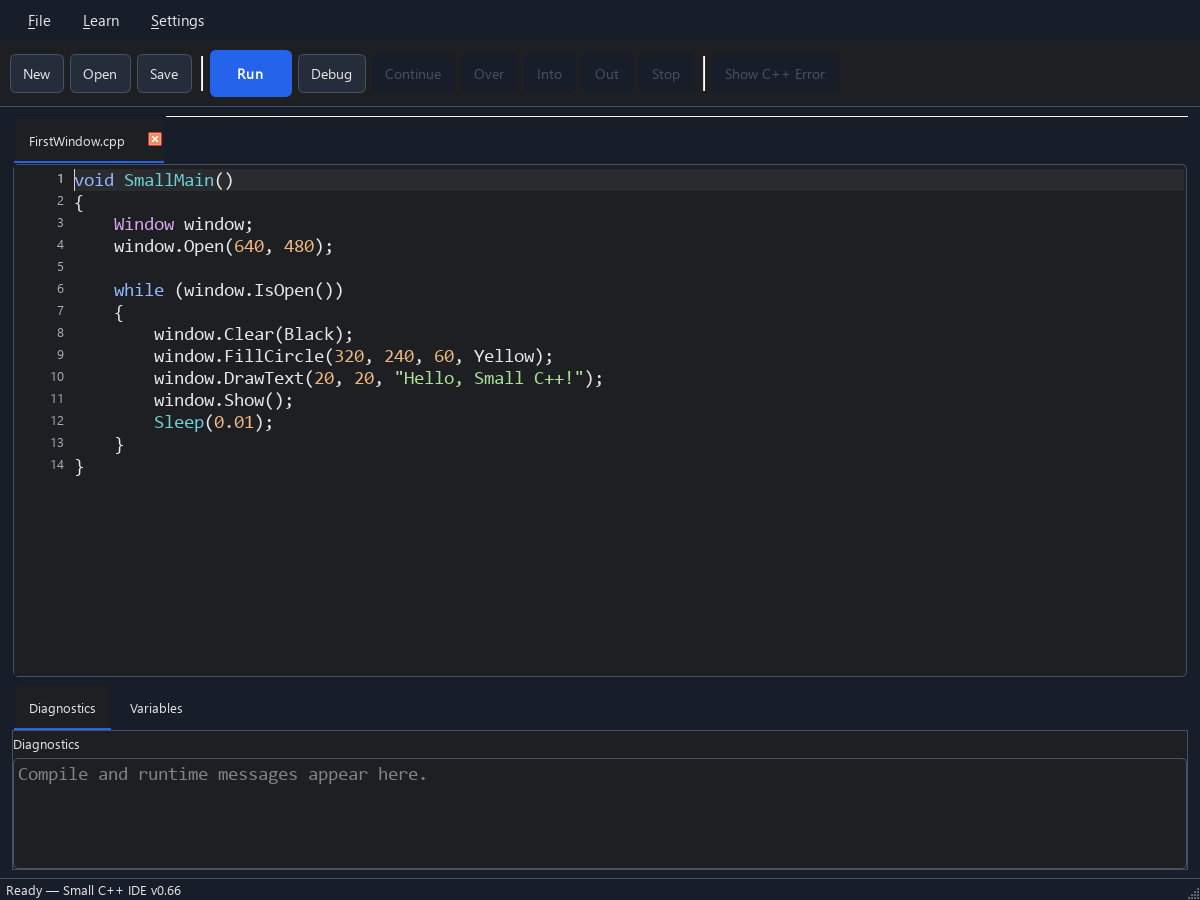
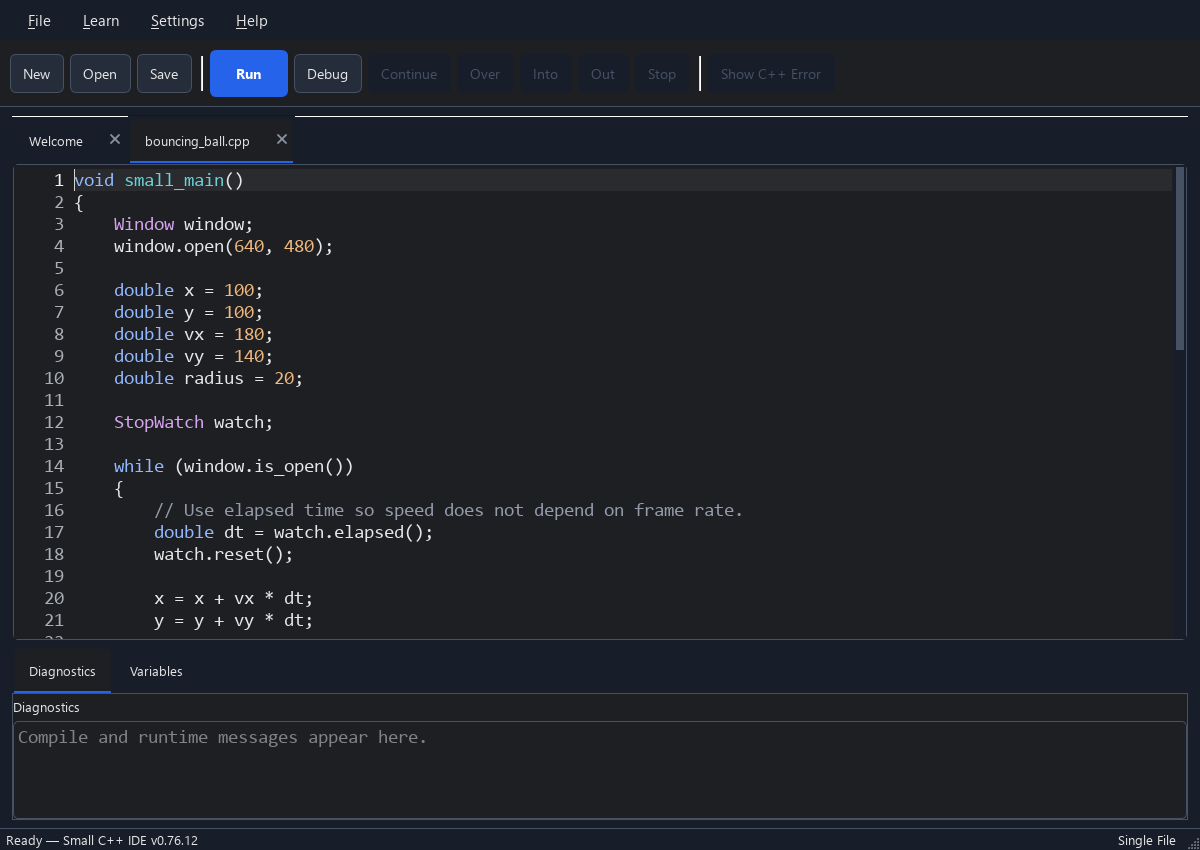
docs: group web lessons by part and refresh IDE previews

diff --git a/site/index.html b/site/index.html
@@ -7,8 +7,8 @@
   <meta name="theme-color" content="#10191b">
   <title>Small C++ — Start small. Go further.</title>
   <link rel="icon" href="assets/smallcpp_128.png">
-  <link rel="stylesheet" href="style.css">
-  <script src="app.js" defer></script>
+  <link rel="stylesheet" href="style.css?v=0.76.12">
+  <script src="app.js?v=0.76.12" defer></script>
 </head>
 <body>
   <header class="navigation wrap">
@@ -22,9 +22,8 @@
         <p class="eyebrow"><span class="status-dot"></span><span data-en="A little beginning. A real language." data-ko="작은 시작. 진짜 프로그래밍 언어.">A little beginning. A real language.</span></p>
         <h1 data-en="Start small.<br><span>Go further.</span>" data-ko="작은 시작.<br><span>큰 가능성.</span>">Start small.<br><span>Go further.</span></h1>
         <p class="hero-description" data-en="Your first line of code shouldn't come with a mountain of setup. Meet a friendly desktop home for learning real C++, one small step at a time." data-ko="코드 한 줄을 쓰기 위해 복잡한 설정부터 배울 필요는 없어요. 실제 C++을 한 걸음씩 배우는, 친근한 데스크톱 개발 환경을 만나 보세요.">Your first line of code shouldn't come with a mountain of setup. Meet a friendly desktop home for learning real C++, one small step at a time.</p>
-        <div class="actions"><a class="button primary" href="https://github.com/sodomau/small-cpp/releases/tag/v0.76.11"><span aria-hidden="true">↓</span><span data-en="Get the Windows preview" data-ko="Windows 미리보기 받기">Get the Windows preview</span></a><a class="text-link" href="https://github.com/sodomau/small-cpp" data-en="Explore the source ↗" data-ko="소스 살펴보기 ↗">Explore the source ↗</a></div>
-        <p class="release-note" data-en="v0.76.11 · Windows x64 · Portable preview" data-ko="v0.76.11 · Windows x64 · 포터블 미리보기">v0.76.11 · Windows x64 · Portable preview</p>
-        <p class="release-note" data-en="The website and current source use the new snake_case API. The v0.76.11 download still uses PascalCase; follow its included tutorials." data-ko="웹사이트와 최신 소스는 새 snake_case API를 사용합니다. v0.76.11 다운로드는 기존 PascalCase API를 사용하므로 함께 제공되는 튜토리얼을 따라 주세요.">The website and current source use the new snake_case API. The v0.76.11 download still uses PascalCase; follow its included tutorials.</p>
+        <div class="actions"><a class="button primary" href="https://github.com/sodomau/small-cpp/releases/tag/v0.76.12"><span aria-hidden="true">↓</span><span data-en="Get the Windows preview" data-ko="Windows 미리보기 받기">Get the Windows preview</span></a><a class="text-link" href="https://github.com/sodomau/small-cpp" data-en="Explore the source ↗" data-ko="소스 살펴보기 ↗">Explore the source ↗</a></div>
+        <p class="release-note" data-en="v0.76.12 · Windows x64 · Portable preview" data-ko="v0.76.12 · Windows x64 · 포터블 미리보기">v0.76.12 · Windows x64 · Portable preview</p>
       </div>
       <div class="code-scene">
         <div class="orbit orbit-one"></div><div class="orbit orbit-two"></div>
@@ -38,12 +37,12 @@
     <div class="facts wrap"><div><strong data-core-lesson-count>97</strong><span data-en="core lessons" data-ko="핵심 레슨">core lessons</span></div><div><strong>2</strong><span data-en="tutorial languages" data-ko="튜토리얼 언어">tutorial languages</span></div><div><strong>C++</strong><span data-en="from the very first line" data-ko="첫 줄부터 실제 C++">from the very first line</span></div></div>
     <section id="experience" class="experience wrap section">
       <div class="section-heading"><div><p class="eyebrow" data-en="A PLACE TO MAKE THINGS" data-ko="무언가를 만드는 공간">A PLACE TO MAKE THINGS</p><h2 data-en="Less setup.<br>More “I made that.”" data-ko="설정은 가볍게.<br>만드는 즐거움은 크게.">Less setup.<br>More “I made that.”</h2></div><div class="section-aside"><p data-en="Write, run, and explore in one native desktop app. Your code becomes a real program on your own computer." data-ko="하나의 네이티브 앱에서 코드를 쓰고, 실행하고, 탐험하세요. 내 코드가 내 컴퓨터에서 실제 프로그램이 됩니다.">Write, run, and explore in one native desktop app. Your code becomes a real program on your own computer.</p><div class="theme-switch" role="group" aria-label="Screenshot theme"><button type="button" data-theme="dark" aria-pressed="true" data-en="Dark" data-ko="다크">Dark</button><button type="button" data-theme="light" aria-pressed="false" data-en="Light" data-ko="라이트">Light</button></div></div></div>
-      <figure class="ide-frame"><div class="frame-caption"><span><span class="status-dot"></span>Small C++ IDE</span><span data-en="Your next idea starts here" data-ko="다음 아이디어는 여기서 시작">Your next idea starts here</span></div><img id="ide-screenshot" src="assets/ide-dark.png" alt="Small C++ desktop IDE with a drawing program, Run and Debug controls, and diagnostics" width="1200" height="800" loading="lazy"></figure>
+      <figure class="ide-frame"><div class="frame-caption"><span><span class="status-dot"></span>Small C++ IDE</span><span data-en="Your next idea starts here" data-ko="다음 아이디어는 여기서 시작">Your next idea starts here</span></div><img id="ide-screenshot" data-version="0.76.12" src="assets/ide-dark.png?v=0.76.12" alt="Small C++ desktop IDE with a drawing program, Run and Debug controls, and diagnostics" width="1200" height="850" loading="lazy"></figure>
       <div class="feature-grid"><article><span class="feature-icon" aria-hidden="true">▶</span><h3 data-en="Make it run" data-ko="바로 실행하기">Make it run</h3><p data-en="Write a small program. Press Run. See what happens. The Windows bundle includes the compiler and debugger." data-ko="작은 프로그램을 쓰고 Run을 누르세요. 결과를 바로 확인할 수 있어요. Windows 배포판에 컴파일러와 디버거가 포함됩니다.">Write a small program. Press Run. See what happens. The Windows bundle includes the compiler and debugger.</p></article><article><span class="feature-icon peach" aria-hidden="true">✳</span><h3 data-en="Make it yours" data-ko="나만의 작품 만들기">Make it yours</h3><p data-en="Go from text to windows, drawing, keyboard input, sound, and images. Build something you want to show a friend." data-ko="텍스트에서 창, 그림, 키보드 입력, 소리, 이미지까지. 친구에게 보여 주고 싶은 작품을 만들어 보세요.">Go from text to windows, drawing, keyboard input, sound, and images. Build something you want to show a friend.</p></article><article><span class="feature-icon lilac" aria-hidden="true">⌁</span><h3 data-en="Understand the why" data-ko="왜 그런지 알아보기">Understand the why</h3><p data-en="Step through your code, watch variables, and learn from readable diagnostics. See the original C++ error when you're ready." data-ko="코드를 한 단계씩 실행하고 변수의 변화를 보세요. 읽기 쉬운 오류 설명으로 배우고, 준비되면 원래 C++ 오류도 살펴보세요.">Step through your code, watch variables, and learn from readable diagnostics. See the original C++ error when you're ready.</p></article></div>
     </section>
     <section id="learn" class="learning section"><div class="wrap"><div class="section-heading"><div><p class="eyebrow" data-en="FOLLOW YOUR CURIOSITY" data-ko="호기심을 따라 한 걸음씩">FOLLOW YOUR CURIOSITY</p><h2 data-en="A path, not a ceiling." data-ko="한계가 아닌, 다음 계단.">A path, not a ceiling.</h2></div><p class="section-aside" data-en="97 core lessons, plus 3 Image extension lessons. English and Korean guides in the current source tree, with examples, exercises, and solutions." data-ko="핵심 97개 레슨과 Image 확장 3개 레슨. 현재 소스에는 영어·한국어 설명과 예제, 연습 문제, 풀이가 모두 준비되어 있어요.">97 core lessons, plus 3 Image extension lessons. English and Korean guides in the current source tree, with examples, exercises, and solutions.</p></div><div class="path-grid"><article><span class="step">01 / BEGIN</span><h3 data-en="Say hello." data-ko="첫 인사부터.">Say hello.</h3><p data-en="Text, numbers, choices, and loops. Turn an idea into a few lines that work." data-ko="텍스트, 숫자, 조건문, 반복문. 아이디어를 실행되는 몇 줄의 코드로 바꿔요.">Text, numbers, choices, and loops. Turn an idea into a few lines that work.</p></article><article><span class="step">02 / CREATE</span><h3 data-en="Play with possibilities." data-ko="가능성을 가지고 놀기.">Play with possibilities.</h3><p data-en="Draw, move, listen, and respond. Bring interactive programs to life." data-ko="그리고, 움직이고, 듣고, 반응하세요. 상호작용하는 프로그램을 만들어요.">Draw, move, listen, and respond. Bring interactive programs to life.</p></article><article><span class="step">03 / GROW</span><h3 data-en="Open the next door." data-ko="다음 문 열기.">Open the next door.</h3><p data-en="Discover classes, the standard library, and the tools behind your program. Keep going as far as you want." data-ko="클래스, 표준 라이브러리, 프로그램 뒤의 도구를 만나세요. 원하는 만큼 계속 성장할 수 있어요.">Discover classes, the standard library, and the tools behind your program. Keep going as far as you want.</p></article></div><a id="tutorial-link" class="button secondary" href="lessons/en/index.html"><span data-en="Explore the lessons" data-ko="레슨 살펴보기">Explore the lessons</span><span aria-hidden="true">↗</span></a><p class="learning-note" data-en="The Windows preview includes all lessons in English and Korean. Choose Settings → Tutorial Language in the IDE." data-ko="Windows 미리보기에는 영어·한국어 레슨이 모두 포함되어 있습니다. IDE의 Settings → Tutorial Language에서 언어를 선택하세요.">The Windows preview includes all lessons in English and Korean. Choose Settings → Tutorial Language in the IDE.</p></div></section>
     <section class="story wrap section"><p class="eyebrow" data-en="THE IDEA BEHIND SMALL" data-ko="SMALL의 출발점">THE IDEA BEHIND SMALL</p><div class="story-grid"><h2 data-en="The immediacy of BASIC.<br><span>The path to C++.</span>" data-ko="BASIC의 즉각적인 즐거움.<br><span>C++로 이어지는 길.</span>">The immediacy of BASIC.<br><span>The path to C++.</span></h2><div><p data-en="Small C++ began with a memory: the joy of making a computer do something in GW-BASIC. The developer wanted to bring that feeling to learning C++." data-ko="Small C++은 GW-BASIC으로 컴퓨터에게 무언가를 시키던 즐거운 기억에서 시작됐습니다. 개발자는 그 경험을 C++을 배우는 과정에서도 느끼게 하고 싶었습니다.">Small C++ began with a memory: the joy of making a computer do something in GW-BASIC. The developer wanted to bring that feeling to learning C++.</p><p data-en="Small Basic is a simple programming language and development environment created by Microsoft for beginners. Its approachable tools help newcomers write their first programs and see the results. The name Small C++ is a nod to that spirit: small first steps, and the joy of making something work." data-ko="Small Basic은 마이크로소프트가 프로그래밍 입문자를 위해 만든 간단한 언어이자 개발 환경입니다. 처음 배우는 사람도 코드를 쓰고 결과를 확인하며 프로그래밍의 재미를 느끼도록 돕습니다. Small C++이라는 이름은 여기서 따왔으며, 작은 첫걸음과 만드는 즐거움을 C++에서도 느낄 수 있게 하자는 생각을 담았습니다.">Small Basic is a simple programming language and development environment created by Microsoft for beginners. Its approachable tools help newcomers write their first programs and see the results. The name Small C++ is a nod to that spirit: small first steps, and the joy of making something work.</p><p data-en="Complexity arrives when you have a reason to care. What you learn is real C++ from the start, and it stays useful as your programs grow." data-ko="복잡한 개념은 배울 이유가 생길 때 만나면 됩니다. 처음부터 실제 C++을 배우기 때문에, 프로그램이 커져도 배운 내용은 그대로 쓸 수 있어요.">Complexity arrives when you have a reason to care. What you learn is real C++ from the start, and it stays useful as your programs grow.</p><a class="text-link" href="https://github.com/sodomau/small-cpp/blob/main/docs/PHILOSOPHY.md" data-en="Read the philosophy ↗" data-ko="프로젝트 철학 읽기 ↗">Read the philosophy ↗</a></div></div></section>
-    <section class="closing wrap"><span class="eyebrow" data-en="YOUR FIRST STEP IS ENOUGH" data-ko="첫 한 걸음이면 충분해요">YOUR FIRST STEP IS ENOUGH</span><h2 data-en="What will you make?" data-ko="어떤 걸 만들어 볼까요?">What will you make?</h2><a class="button primary" href="https://github.com/sodomau/small-cpp/releases/tag/v0.76.11" data-en="Start with Small C++ ↗" data-ko="Small C++로 시작하기 ↗">Start with Small C++ ↗</a></section>
+    <section class="closing wrap"><span class="eyebrow" data-en="YOUR FIRST STEP IS ENOUGH" data-ko="첫 한 걸음이면 충분해요">YOUR FIRST STEP IS ENOUGH</span><h2 data-en="What will you make?" data-ko="어떤 걸 만들어 볼까요?">What will you make?</h2><a class="button primary" href="https://github.com/sodomau/small-cpp/releases/tag/v0.76.12" data-en="Start with Small C++ ↗" data-ko="Small C++로 시작하기 ↗">Start with Small C++ ↗</a></section>
   </main>
   <div class="credits wrap"><p><span data-en="Created by Sunghyun Cho" data-ko="개발 · 조성현">Created by Sunghyun Cho</span> · <a href="mailto:s.cho@postech.ac.kr">s.cho@postech.ac.kr</a> · <a href="https://scho.postech.ac.kr">scho.postech.ac.kr ↗</a></p><p><a href="https://github.com/sodomau/small-cpp/blob/main/LICENSE" data-en="Open source · Licensed under MIT" data-ko="오픈 소스 · MIT 라이선스">Open source · Licensed under MIT</a></p></div>
   <footer class="wrap"><a class="brand" href="#">Small C++<span class="brand-dot">.</span></a><p data-en="Start small. Grow as far as you want." data-ko="작게 시작해서, 원하는 만큼 성장하세요.">Start small. Grow as far as you want.</p><div><a href="https://github.com/sodomau/small-cpp">GitHub ↗</a></div></footer>

diff --git a/site/style.css b/site/style.css
@@ -178,4 +178,15 @@ html[lang=ko] h1{font-size:53px}
 .lesson-index a{display:flex;gap:16px;padding:16px;border:1px solid var(--line);border-radius:7px;color:var(--text);font-size:13px;line-height:1.5}
 .lesson-index a:hover{background:var(--panel);border-color:#607b70}
 .lesson-index span{color:var(--mint);font-family:Consolas,monospace}
+.reader .lesson-section{margin:14px 0;padding:0;overflow:hidden}
+.reader .lesson-section summary{display:flex;align-items:center;gap:18px;padding:22px;list-style:none;color:var(--text)}
+.lesson-section summary::-webkit-details-marker{display:none}
+.lesson-section summary::before{content:"+";color:var(--mint);font-size:23px;width:18px;flex-shrink:0;text-align:center}
+.lesson-section[open] summary::before{content:"−"}
+.lesson-section-title{font-size:17px;font-weight:600;line-height:1.5}
+.lesson-section-count{margin-left:auto;flex-shrink:0;font-size:12px;color:var(--muted)}
+.lesson-section summary:hover{background:var(--panel)}
+.lesson-section summary:focus-visible{outline:2px solid var(--mint);outline-offset:-3px}
+.lesson-section .lesson-index{margin:0;padding:0 22px 22px}
+@media(max-width:700px){.reader .lesson-section summary{flex-wrap:wrap;gap:10px;padding:18px}.lesson-section-title{flex:1;font-size:16px}.lesson-section-count{width:100%;margin-left:28px}.lesson-section .lesson-index{padding:0 18px 18px}}
 @media(max-width:700px){.lesson-index{grid-template-columns:1fr}.reader h1,html[lang=ko] .reader h1{font-size:32px}.reader pre{padding:15px;font-size:12px}}

diff --git a/site/app.js b/site/app.js
@@ -21,7 +21,8 @@ languageButton.addEventListener('click', () => {
 });
 document.querySelectorAll('[data-theme]').forEach(button => {
   button.addEventListener('click', () => {
-    document.querySelector('#ide-screenshot').src = `assets/ide-${button.dataset.theme}.png`;
+    const screenshot = document.querySelector('#ide-screenshot');
+    screenshot.src = `assets/ide-${button.dataset.theme}.png?v=${screenshot.dataset.version}`;
     document.querySelectorAll('[data-theme]').forEach(option => {
       option.setAttribute('aria-pressed', String(option === button));
     });

diff --git a/tools/build_site.py b/tools/build_site.py
@@ -97,7 +97,7 @@ def page(title, language, content, switch_link):
     return f'''<!doctype html>
 <html lang="{language}"><head><meta charset="utf-8"><meta name="viewport" content="width=device-width, initial-scale=1">
 <title>{escape(title)} — Small C++</title><link rel="icon" href="../../assets/smallcpp_128.png">
-<link rel="stylesheet" href="../../style.css"></head><body>
+<link rel="stylesheet" href="../../style.css?v=0.76.12"></head><body>
 <header class="navigation wrap"><a class="brand" href="../../index.html">Small C++<span class="brand-dot">.</span></a>
 <nav aria-label="Navigation"><a href="../../index.html">{home}</a><a href="index.html">{lessons}</a></nav>
 <a class="language" href="{switch_link}">{switch}</a></header>
@@ -130,7 +130,7 @@ def build():
     for language, other in (('en', 'ko'), ('ko', 'en')):
         destination = OUTPUT / 'lessons' / language
         destination.mkdir(parents=True, exist_ok=True)
-        index = []
+        sections = {}
         for number, (slug, folder) in enumerate(lessons):
             metadata, text = read_lesson(folder / f'{language}.md')
             for reference in re.findall(r'!\[[^\]]*\]\(([^)]+)\)', text):
@@ -141,8 +141,10 @@ def build():
                 target.parent.mkdir(parents=True, exist_ok=True)
                 shutil.copy2(folder / image, target)
             title = metadata.get('title', slug)
-            index.append(f'<li><a href="{slug}.html"><span>{number + 1:02}</span>{escape(title)}</a></li>')
             subtitle = metadata.get('part-title', 'Image extension' if language == 'en' else 'Image 확장')
+            part = metadata.get('part', 'image' if slug.startswith('image-') else 'core')
+            section = sections.setdefault(part, {'title': subtitle, 'items': [], 'first': number + 1})
+            section['items'].append(f'<li><a href="{slug}.html"><span>{number + 1:02}</span>{escape(title)}</a></li>')
             content = f'<p class="eyebrow">{escape(subtitle)}</p><h1>{escape(title)}</h1>'
             if goal := metadata.get('goal'):
                 content += f'<p class="lesson-goal">{escape(goal)}</p>'
@@ -159,7 +161,16 @@ def build():
         title = 'One small step at a time.' if language == 'en' else '한 걸음씩, 차근차근.'
         description = (f'{core_count} core lessons + {image_count} Image lessons. Read, try the examples in the desktop IDE, and make them your own.'
                        if language == 'en' else f'핵심 {core_count}개 레슨과 Image 확장 {image_count}개 레슨. 설명을 읽고 데스크톱 IDE에서 예제를 실행하며 나만의 코드로 바꿔 보세요.')
-        content = f'<p class="eyebrow">SMALL STEPS</p><h1>{title}</h1><p class="lesson-goal">{description}</p><ol class="lesson-index">' + ''.join(index) + '</ol>'
+        instruction = 'Choose a part to explore its lessons.' if language == 'en' else '배우고 싶은 파트를 눌러 레슨을 펼쳐 보세요.'
+        content = f'<p class="eyebrow">SMALL STEPS</p><h1>{title}</h1><p class="lesson-goal">{description}</p><p>{instruction}</p>'
+        for part, section in sections.items():
+            count = len(section['items'])
+            count_label = f'{count} lessons' if language == 'en' else f'{count}개 레슨'
+            first, last = section['first'], section['first'] + count - 1
+            content += (f'<details class="lesson-section" id="part-{escape(part, quote=True)}">'
+                        f'<summary><span class="lesson-section-title">{escape(section["title"])}</span>'
+                        f'<span class="lesson-section-count">{first:02}–{last:02} · {count_label}</span></summary>'
+                        f'<ol class="lesson-index" start="{first}">' + ''.join(section['items']) + '</ol></details>')
         (destination / 'index.html').write_text(page(title, language, content, f'../{other}/index.html'), encoding='utf-8', newline='\n')
     return OUTPUT
 

diff --git a/tests/test_tabs.cpp b/tests/test_tabs.cpp
@@ -83,6 +83,33 @@ private:
     }
 
 private slots:
+    void homepagePreview()
+    {
+        const QString output = qEnvironmentVariable("SMALL_HOMEPAGE_PREVIEW_DIR");
+        if (output.isEmpty()) return;
+        const QString source = qEnvironmentVariable("SMALL_HOMEPAGE_PREVIEW_SOURCE");
+        QVERIFY(QFile::exists(source));
+        QVERIFY(QDir().mkpath(output));
+        QFontDatabase::addApplicationFont("C:/Windows/Fonts/segoeui.ttf");
+        QFontDatabase::addApplicationFont("C:/Windows/Fonts/segoeuib.ttf");
+        QFontDatabase::addApplicationFont("C:/Windows/Fonts/consola.ttf");
+        const QFont previousFont = QApplication::font();
+        QApplication::setFont(QFont("Segoe UI", 10));
+        const QString previousVersion = QCoreApplication::applicationVersion();
+        QCoreApplication::setApplicationVersion(qEnvironmentVariable("SMALL_HOMEPAGE_PREVIEW_VERSION"));
+        for (const bool dark : {false, true}) {
+            MainWindow window;
+            action(window, dark ? "actionThemeDark" : "actionThemeLight")->trigger();
+            QVERIFY(window.openDocument(source));
+            window.resize(1200, 850);
+            window.show();
+            QTest::qWait(50);
+            QVERIFY(window.grab().save(output + (dark ? "/ide-dark.png" : "/ide-light.png")));
+        }
+        QCoreApplication::setApplicationVersion(previousVersion);
+        QApplication::setFont(previousFont);
+    }
+
     void welcomeIsNotAFileAndCanBeClosedAndReopened()
     {
         MainWindow window;

diff --git a/site/README.md b/site/README.md
@@ -17,10 +17,11 @@ local computer. Stop it with Ctrl+C.
 
 The build renders all 97 core lessons and 3 Image extension lessons in both languages as static HTML, including
 the shared examples, exercise starters, and collapsible solutions. The lesson
-index and previous/next links work without a Markdown viewer or extra packages.
+index groups lessons into collapsible parts with titles, lesson counts, and ranges.
+The index and previous/next links work without a Markdown viewer or extra packages.
 Generated pages remain in `build/`; the original lesson content is unchanged.
 The preview server serves only the generated site directory. The download button
-points to the v0.76.11 preview, which includes the complete English and Korean
+points to the v0.76.12 preview, which includes the complete English and Korean
 lesson packs. No external fonts, scripts, or analytics are loaded.
 
 The Pages workflow builds and publishes only `build/project-page` when the site,
